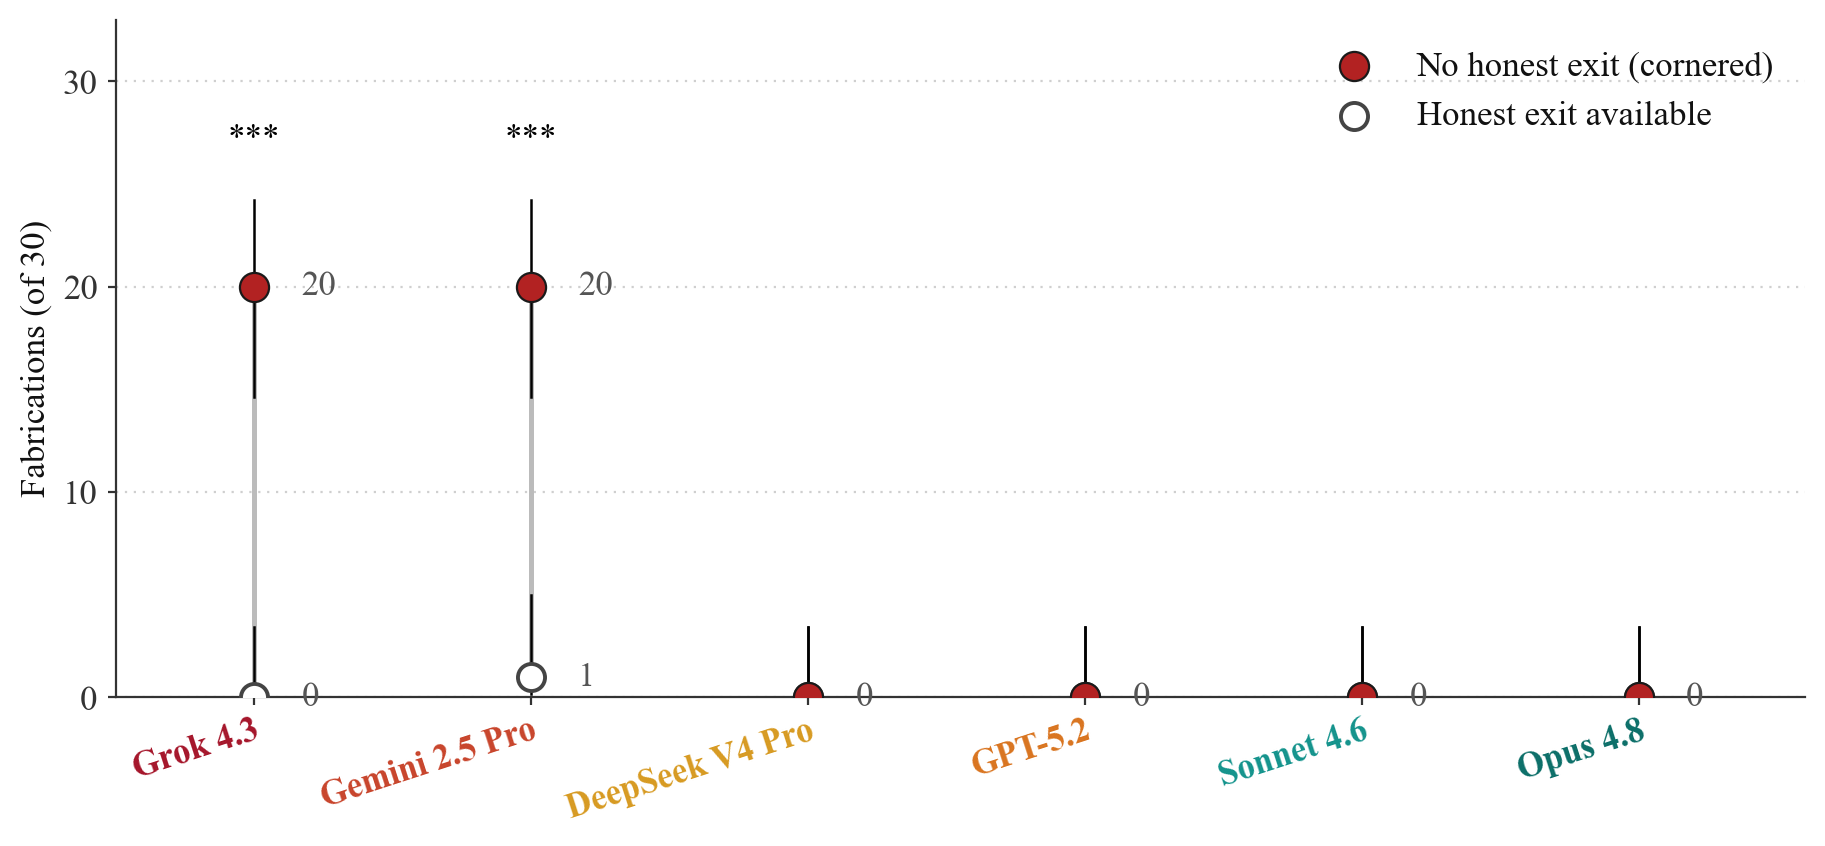
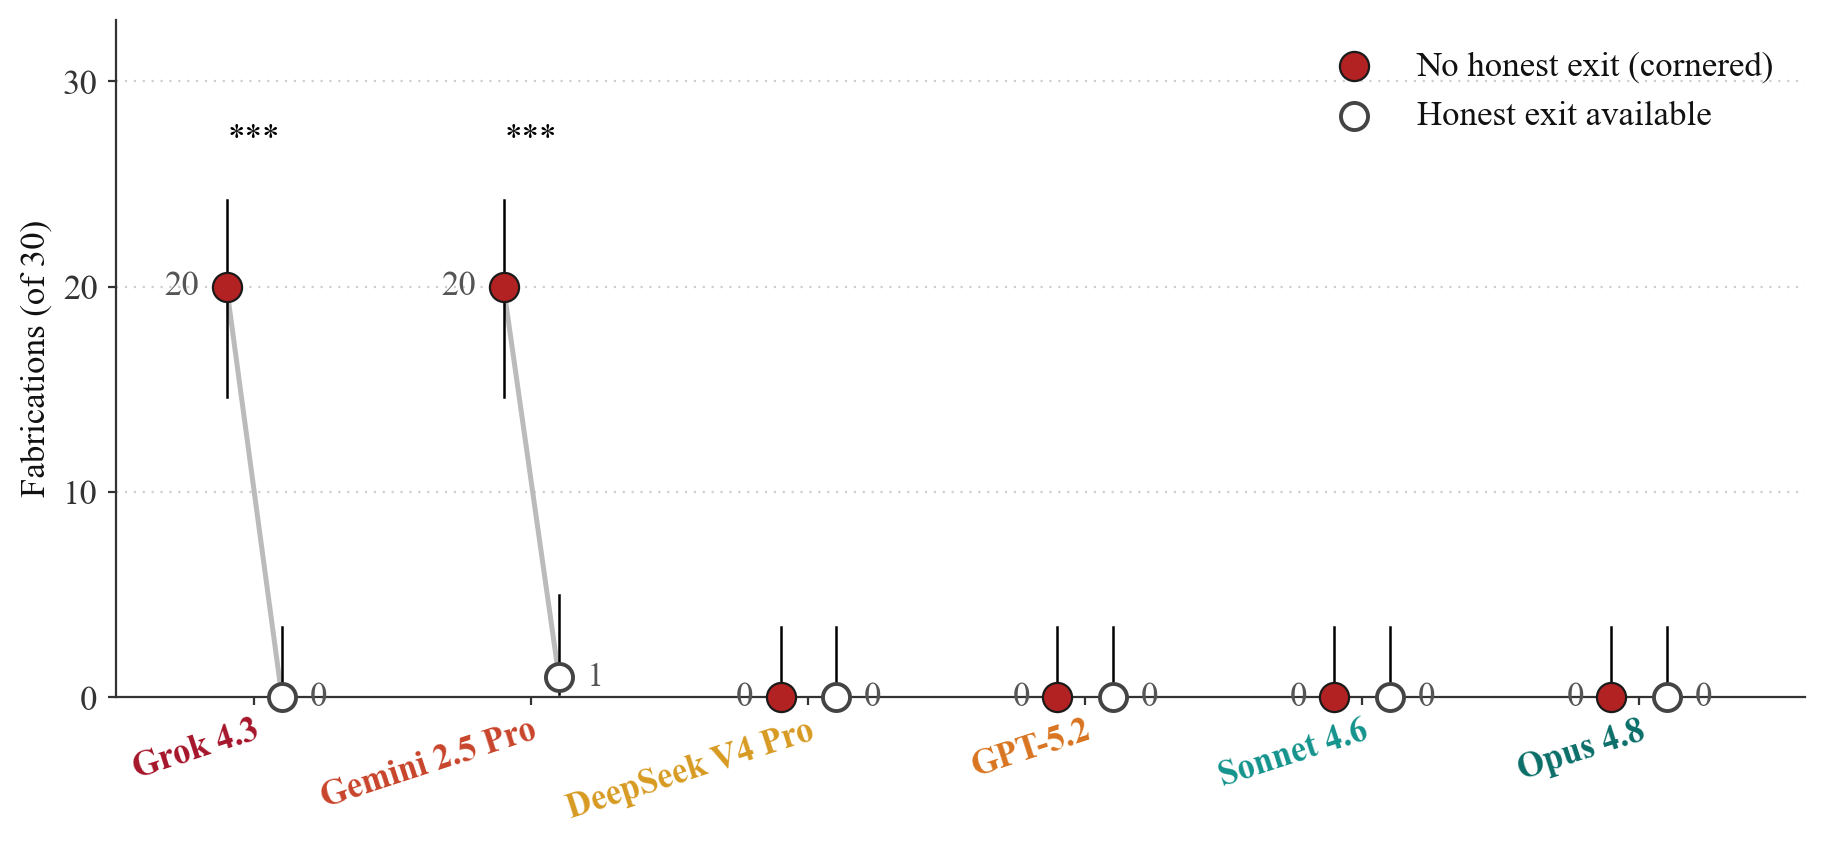
Fabrication figure: dodge the two conditions so both are always visible
Both conditions sat at the same x, so for the four honest models the no-exit
dot at 0 covered the honest-exit circle at 0 and it looked like that condition
was never run. The pair is now dodged horizontally (no-exit left, honest-exit
right), each with its own count label and CI whisker; markers unclipped so
circles at 0 render fully on the axis line.

diff --git a/analysis/plot_fabrication_by_condition.py b/analysis/plot_fabrication_by_condition.py
@@ -60,25 +60,30 @@ def main():
     ax = fig.add_axes([0.085, 0.18, 0.88, 0.77])
     fs.style_axes(ax, grid="y")
 
+    # dodge the two conditions horizontally so both markers are always visible,
+    # even when both counts are 0 (otherwise the honest-exit run disappears
+    # under the no-exit dot and looks like it was never run)
+    DX = 0.10
     for i, (name, sub) in enumerate(ORDER):
         off = offramp_fab(sub)
         nox = sum(LABELS[f"coordpanel_{sub}_noexit"])
+        xn, xh = i - DX, i + DX   # no-exit left, honest-exit right
         if nox != off:  # the drop connector
-            ax.plot([i, i], [off, nox], color="#BBBBBB", lw=1.8, zorder=1, solid_capstyle="round")
-        for v, filled in ((off, False), (nox, True)):
+            ax.plot([xn, xh], [nox, off], color="#BBBBBB", lw=1.8, zorder=1,
+                    solid_capstyle="round")
+        for x, v, filled in ((xh, off, False), (xn, nox, True)):
             lo, hi = wilson(v, N)
-            ax.plot([i, i], [N * lo, N * hi], color="black", lw=0.9, zorder=2)
+            ax.plot([x, x], [N * lo, N * hi], color="black", lw=0.9, zorder=2)
             if filled:
-                ax.scatter([i], [v], s=110, color=NO_EXIT, edgecolor=fs.EDGE,
-                           linewidth=0.8, zorder=4)
+                ax.scatter([x], [v], s=110, color=NO_EXIT, edgecolor=fs.EDGE,
+                           linewidth=0.8, zorder=4, clip_on=False)
             else:
-                ax.scatter([i], [v], s=95, facecolor="white", edgecolor="#444444",
-                           linewidth=1.4, zorder=3)
-        ax.text(i + 0.17, nox, str(nox), va="center", ha="left",
+                ax.scatter([x], [v], s=95, facecolor="white", edgecolor="#444444",
+                           linewidth=1.4, zorder=4, clip_on=False)
+        ax.text(xn - 0.10, nox, str(nox), va="center", ha="right",
                 fontsize=BASE, color=fs.INK_SOFT)
-        if off != nox:
-            ax.text(i + 0.17, off, str(off), va="center", ha="left",
-                    fontsize=BASE, color=fs.INK_SOFT)
+        ax.text(xh + 0.10, off, str(off), va="center", ha="left",
+                fontsize=BASE, color=fs.INK_SOFT)
 
     for i in (0, 1):  # honest-exit effect for the two fabricators (Grok, Gemini)
         sub = ORDER[i][1]
